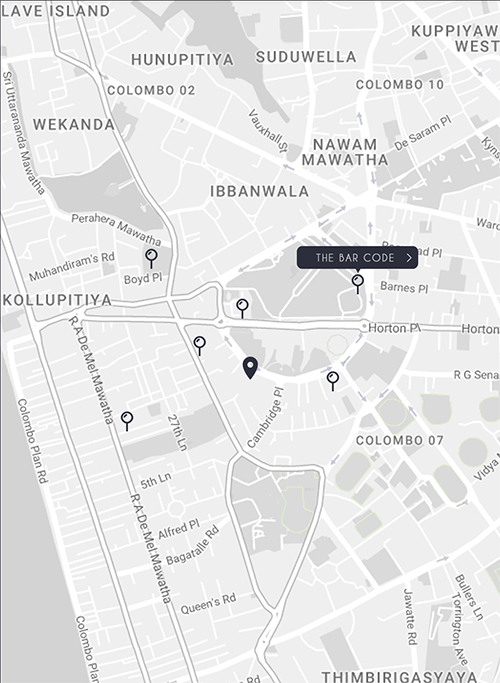
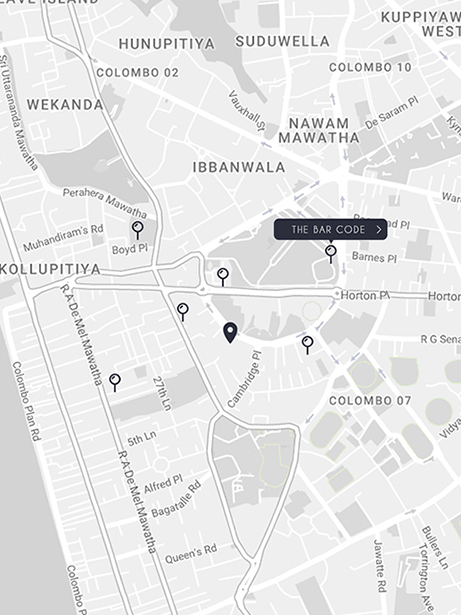
location page completed

diff --git a/location.php b/location.php
@@ -12,99 +12,93 @@
     <title>Location | ONYX Hospitality</title>
 
     <?php include('head.php'); ?>
+
 </head>
 
+<body style="height: 100%">
 
-<body>
-
-<div class="page-image-area">
-    <!--Map goes here, temporary image added-->
-    <img src="img/home/map.jpg"style="width: 100%;">
+<div class="container col-md-12 col-sm-12 col-xs-12" style="">
     <div class="highlight">
         <span><a href="index.php"><i class="fa fa-angle-left fa-3x" style="margin: 15px 15px; "></i></a></span>
+        <a href="index.php"><img src="img/logo/onyx-hospitality-logo-white.png" alt="Logo" class="highlightlogo"></a>
     </div>
-</div>
-<div class="page-content-area">
-    <div class="highlight">
-        <center><a href="index.php"><img src="img/logo/onyx-hospitality-logo-white.png" alt="Logo" style="width: 80px; margin: 24px 10px 20px 5px;"></a></center>
+
+    <div class="col-md-6 col-sm-6 col-xs-12 fill" style="float:left; background-color: blue; padding:0px 0px;">
+
+        <img src="img/home/map.jpg" style="">
     </div>
-    <div class="block">
+
+    <div class="col-md-6 col-sm-6 col-xs-12 containertext center" style="">
         <div class="row">
-            <div class="col-sm-12">
-            </div>
-        </div>
-    </div>
-    <div class="sub-block">
-        <div class="row">
-            <div class="col-sm-3">
-                    <img src="img/pubs/bar-logo4.png" style="width: 100%">
-            </div>
-            <div class="col-sm-7" style="margin-top: 2%">
-                <h5>THE LOUNGE - KAROKE & PUB </h5>
-                <h6>107, marine drive, colombo 5</h6>
-            </div>
-            <div class="col-sm-2">
-                <a class="arrow" href="pub.php"><i class="fa fa-angle-right fa-3x" style="margin: 15px 15px; "></i></a></span>
+            <div class="col-sm-12 col-md-12 col-xs-12">
+                <center>
+                    <div class="row">
+                        <div class="col-sm-3 col-md-3 col-xs-3">
+                            <img src="img/pubs/bar-logo4.png" style="width: 100%">
+                        </div>
+                        <div class="col-sm-7 col-md-7 col-xs-7" style="margin-top: 2%">
+                            <h5>THE LOUNGE - KAROKE & PUB </h5>
+                            <h6>107, marine drive, colombo 5</h6>
+                        </div>
+                        <div class="col-sm-2 col-md-2 col-xs-2">
+                            <a class="arrow" href="pub.php"><i class="fa fa-angle-right fa-3x" style="margin: 15px 15px; "></i></a></span>
+                        </div>
+                    </div>
+                    <div class="row">
+                        <div class="col-sm-3">
+                            <img src="img/pubs/bar-logo3.png" style="width: 100%">
+                        </div>
+                        <div class="col-sm-7" style="margin-top: 2%">
+                            <h5>MISTY - THE COCKTAIL BAR </h5>
+                            <h6>89, Alexander Place, colombo 8</h6>
+                        </div>
+                        <div class="col-sm-2">
+                            <a class="arrow" href="pub.php"><i class="fa fa-angle-right fa-3x" style="margin: 15px 15px; "></i></a></span>
+                        </div>
+                    </div>
+                    <div class="row">
+                        <div class="col-sm-3" >
+                            <img src="img/pubs/bar-logo2.png" style="width: 100%">
+                        </div>
+                        <div class="col-sm-7" style="margin-top: 2%">
+                            <h5>THE BAR CODE </h5>
+                            <h6>5/7, Dutch House, Colombo 7</h6>
+                        </div>
+                        <div class="col-sm-2">
+                            <a class="arrow" href="pub.php"><i class="fa fa-angle-right fa-3x" style="margin: 15px 15px; "></i></a></span>
+                        </div>
+                    </div>
+                    <div class="row">
+                        <div class="col-sm-3">
+                            <img src="img/pubs/bar-logo1.png" style="width: 100%">
+                        </div>
+                        <div class="col-sm-7" style="margin-top: 2%">
+                            <h5>SERENDIB BREWERES & CO </h5>
+                            <h6>105, Francis Place, Colombo 5</h6>
+                        </div>
+                        <div class="col-sm-2">
+                            <a class="arrow" href="pub.php"><i class="fa fa-angle-right fa-3x" style="margin: 15px 15px; "></i></a></span>
+                        </div>
+                    </div>
+                    <div class="row">
+                        <div class="col-sm-3">
+                            <img src="img/pubs/bar-logo5.png" style="width: 100%">
+                        </div>
+                        <div class="col-sm-7" style="margin-top: 2%">
+                            <h5>SALUD - WINE SPECIALIST </h5>
+                            <h6>10, ALBERT CRESENT, COLOMBO 4</h6>
+                        </div>
+                        <div class="col-sm-2">
+                            <a class="arrow" href="pub.php"><i class="fa fa-angle-right fa-3x" style="margin: 15px 15px; "></i></a></span>
+                        </div>
+                    </div>
+
+                </center>
             </div>
         </div>
 
     </div>
-    <div class="sub-block">
-        <div class="row">
-            <div class="col-sm-3">
-                <img src="img/pubs/bar-logo3.png" style="width: 100%">
-            </div>
-            <div class="col-sm-7" style="margin-top: 2%">
-                <h5>MISTY - THE COCKTAIL BAR </h5>
-                <h6>89, Alexander Place, colombo 8</h6>
-            </div>
-            <div class="col-sm-2">
-                <a class="arrow" href="pub.php"><i class="fa fa-angle-right fa-3x" style="margin: 15px 15px; "></i></a></span>
-            </div>
-        </div>
-    </div>
-    <div class="sub-block">
-        <div class="row">
-            <div class="col-sm-3" >
-                <img src="img/pubs/bar-logo2.png" style="width: 100%">
-            </div>
-            <div class="col-sm-7" style="margin-top: 2%">
-                <h5>THE BAR CODE </h5>
-                <h6>5/7, Dutch House, Colombo 7</h6>
-            </div>
-            <div class="col-sm-2">
-                <a class="arrow" href="pub.php"><i class="fa fa-angle-right fa-3x" style="margin: 15px 15px; "></i></a></span>
-            </div>
-        </div>
-    </div>
-    <div class="sub-block">
-        <div class="row">
-            <div class="col-sm-3">
-                <img src="img/pubs/bar-logo1.png" style="width: 100%">
-            </div>
-            <div class="col-sm-7" style="margin-top: 2%">
-                <h5>SERENDIB BREWERES & CO </h5>
-                <h6>105, Francis Place, Colombo 5</h6>
-            </div>
-            <div class="col-sm-2">
-                <a class="arrow" href="pub.php"><i class="fa fa-angle-right fa-3x" style="margin: 15px 15px; "></i></a></span>
-            </div>
-        </div>
-    </div>
-    <div class="sub-block">
-        <div class="row">
-            <div class="col-sm-3">
-                <img src="img/pubs/bar-logo5.png" style="width: 100%">
-            </div>
-            <div class="col-sm-7" style="margin-top: 2%">
-                <h5>SALUD - WINE SPECIALIST </h5>
-                <h6>10, ALBERT CRESENT, COLOMBO 4</h6>
-            </div>
-            <div class="col-sm-2">
-                <a class="arrow" href="pub.php"><i class="fa fa-angle-right fa-3x" style="margin: 15px 15px; "></i></a></span>
-            </div>
-        </div>
-    </div>
+
 </div>
 
 <!-- FOOTER SECTION -->
